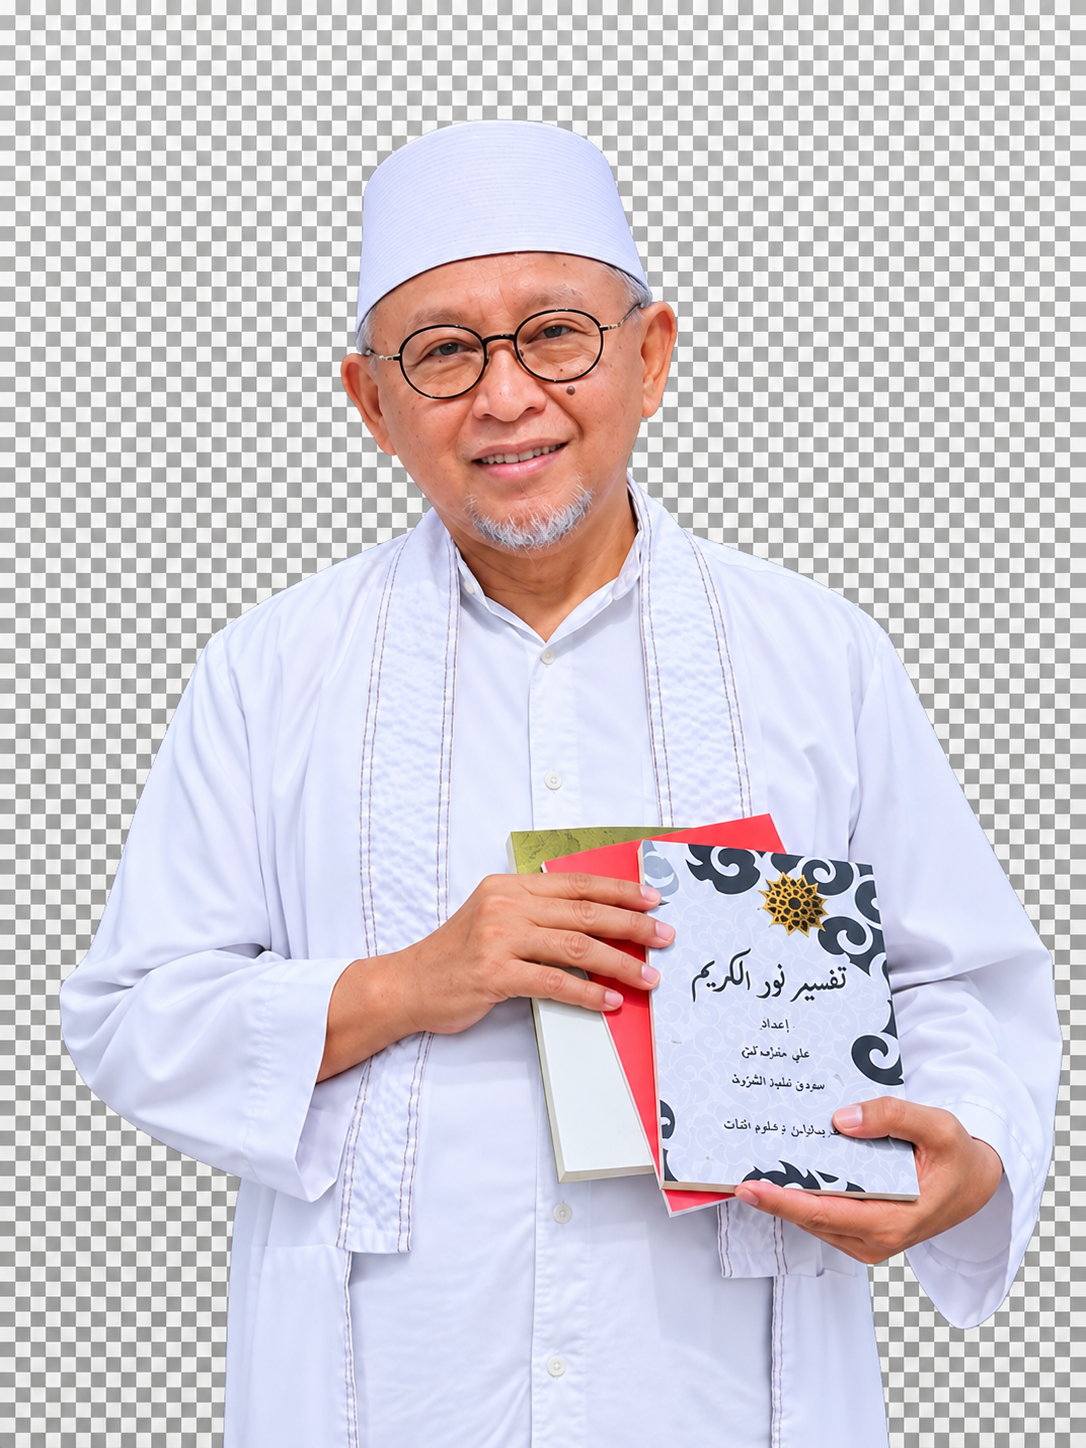
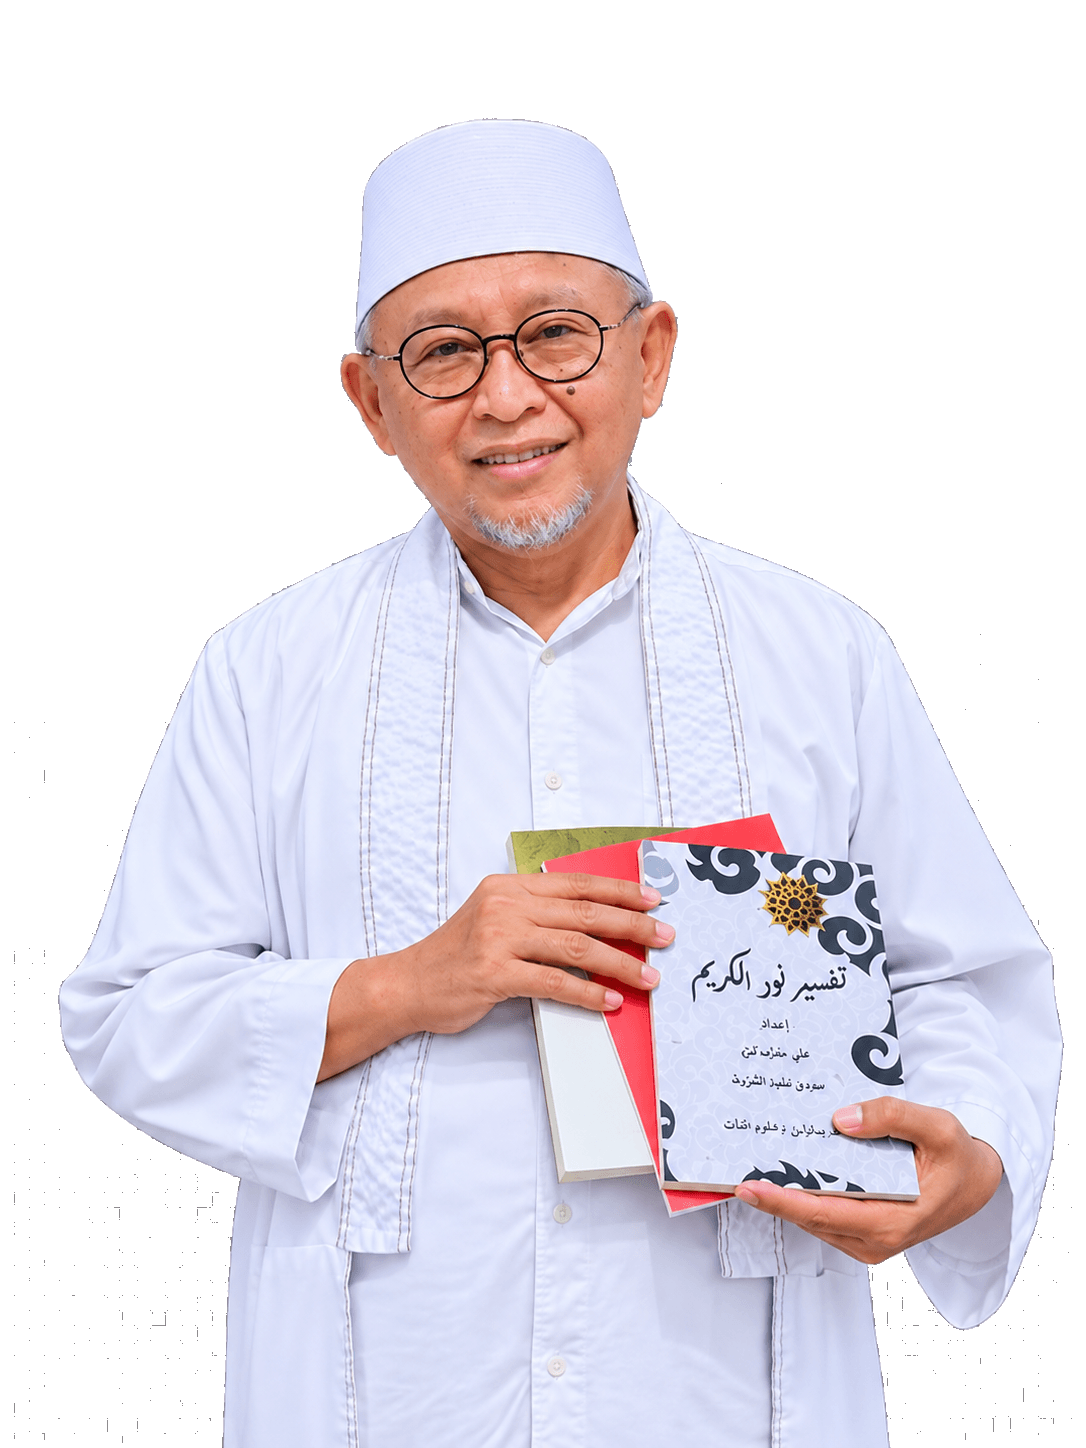
fix(hero): hapus background catur foto abuya, rapatkan jarak tombol dan jadikan 1 baris di mobile & desktop

Changed region(s): [[0.0, 0.0, 1.0, 1.0]]

diff --git a/src/components/Hero.tsx b/src/components/Hero.tsx
@@ -8,7 +8,7 @@ export const Hero: React.FC = () => {
   return (
     <section
       id="beranda"
-      className="relative bg-[#FAF8F5] pt-6 sm:pt-8 md:pt-10 pb-8 sm:pb-12 border-b border-[#EADBCE] overflow-hidden"
+      className="relative bg-[#FAF8F5] pt-4 sm:pt-6 md:pt-8 pb-8 sm:pb-10 border-b border-[#EADBCE] overflow-hidden"
     >
       {/* Semantic H1 for SEO & Screen Readers */}
       <h1 className="sr-only">
@@ -17,32 +17,34 @@ export const Hero: React.FC = () => {
 
       <div className="max-w-5xl mx-auto px-4 sm:px-6 lg:px-8 flex flex-col items-center text-center">
         
-        {/* Foto Portrait Utama Abuya (Portrait First, Dominan, Tanpa Bingkai) */}
-        <div className="relative w-full max-w-[290px] sm:max-w-[380px] md:max-w-[440px] lg:max-w-[500px] xl:max-w-[540px] flex justify-center items-center">
+        {/* Foto Portrait Utama Abuya (Transparan Penuh, Tanpa Background Catur) */}
+        <div className="relative w-full max-w-[280px] sm:max-w-[360px] md:max-w-[420px] lg:max-w-[480px] xl:max-w-[520px] flex justify-center items-center mb-1 sm:mb-2 bg-transparent">
           <Image
             src="/images/kiai Busyro-Kitab.png"
             alt="Dr. KH. Abuya Busyro Karim, M.Si. — Kalam Abuya"
             width={1086}
             height={1448}
             priority
-            className="w-full h-auto object-contain object-bottom select-none pointer-events-none drop-shadow-[0_16px_35px_rgba(23,23,23,0.10)]"
-            sizes="(max-width: 640px) 290px, (max-width: 768px) 380px, (max-width: 1024px) 440px, 540px"
+            className="w-full h-auto object-contain object-bottom select-none pointer-events-none drop-shadow-[0_14px_32px_rgba(107,23,36,0.08)] bg-transparent"
+            sizes="(max-width: 640px) 280px, (max-width: 768px) 360px, (max-width: 1024px) 420px, 520px"
           />
         </div>
 
-        {/* CTA di Bawah Foto */}
-        <div className="mt-6 sm:mt-8 flex flex-wrap items-center justify-center gap-3.5 sm:gap-4">
+        {/* CTA di Bawah Foto (1 Baris Sejajar Mobile & Desktop, Mepet di Bawah Foto) */}
+        <div className="mt-1 sm:mt-2 flex flex-row justify-center items-center gap-2 sm:gap-3.5 px-3 sm:px-4 w-full max-w-lg mx-auto">
+          {/* Tombol 1: JELAJAHI KALAM ABUYA (Solid Burgundy) */}
           <a
             href="#kalam-terbaru"
-            className="inline-flex items-center justify-center px-7 sm:px-8 py-3.5 bg-[#6B1724] text-[#FAF8F5] text-xs sm:text-sm font-sans font-medium tracking-[0.06em] uppercase hover:bg-[#821D2D] transition-colors border border-[#6B1724] shadow-sm group"
+            className="flex-1 sm:flex-initial inline-flex items-center justify-center text-center whitespace-nowrap px-3 sm:px-6 py-2.5 sm:py-3 bg-[#6B1724] text-white text-[11px] sm:text-xs md:text-sm font-sans font-semibold tracking-wider uppercase hover:bg-[#821D2D] transition-all duration-200 border border-[#6B1724] shadow-sm rounded-sm group active:scale-[0.98]"
           >
             <span>Jelajahi Kalam Abuya</span>
-            <ArrowDown className="w-4 h-4 ml-2 group-hover:translate-y-0.5 transition-transform text-[#C5A059]" />
+            <ArrowDown className="w-3.5 h-3.5 sm:w-4 sm:h-4 ml-1.5 sm:ml-2 text-[#C5A059] group-hover:translate-y-0.5 transition-transform shrink-0" />
           </a>
 
+          {/* Tombol 2: MENGENAL ABUYA (Outline Border Emas / Burgundy) */}
           <a
             href="#profil-abuya"
-            className="inline-flex items-center justify-center px-7 sm:px-8 py-3.5 bg-transparent text-[#2C2723] hover:text-[#6B1724] text-xs sm:text-sm font-sans font-medium tracking-[0.06em] uppercase border border-[#EADBCE] hover:border-[#C5A059] transition-colors"
+            className="flex-1 sm:flex-initial inline-flex items-center justify-center text-center whitespace-nowrap px-3 sm:px-6 py-2.5 sm:py-3 bg-white/70 backdrop-blur-xs text-[#2B2B2B] hover:text-[#6B1724] text-[11px] sm:text-xs md:text-sm font-sans font-semibold tracking-wider uppercase border border-[#EADBCE] hover:border-[#C5A059] hover:bg-[#FAF8F5] transition-all duration-200 shadow-xs rounded-sm active:scale-[0.98]"
           >
             <span>Mengenal Abuya</span>
           </a>
@@ -53,3 +55,4 @@ export const Hero: React.FC = () => {
   );
 };
 
+export default Hero;
